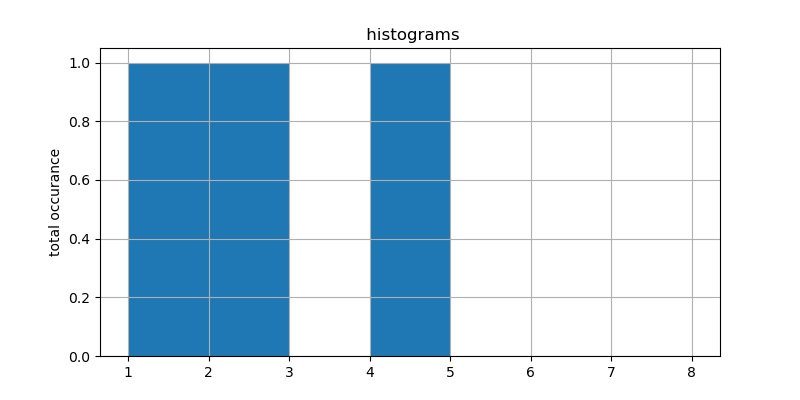
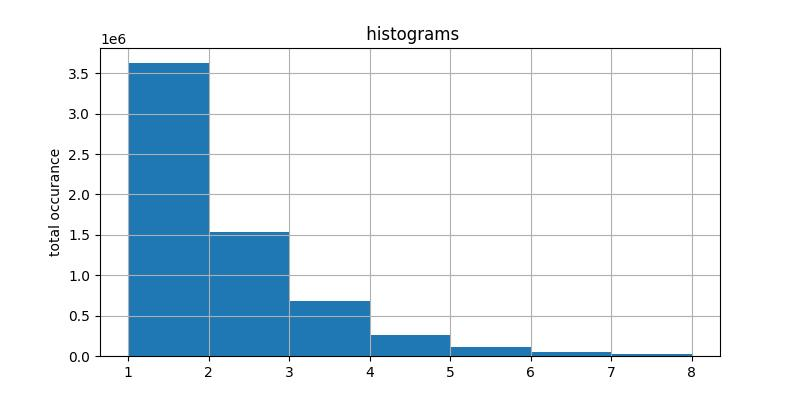
t5 model training

diff --git a/models/triple_dataset.py b/models/triple_dataset.py
@@ -1,0 +1,187 @@
+import torch
+import pandas as pd
+
+
+class TripleDataset(torch.utils.data.Dataset):
+    def __init__(self, filename, with_extra=False):
+
+    triples = []
+    sentence = []
+    with jsonlines.open(filename) as reader:
+        for d in reader:
+           if d['similarity'] > 0.76:
+               triples.append(d['triples'])
+               sentence.append(d['text'])
+    df = pd.Dataframe([triples,sentence], index=['triples','sentence']).T
+    def __getitem__(self, idx):
+        sentence, triples, title = self.df.iloc[idx]['sentence'], self.df.iloc[idx]['triples'], self.df.iloc[idx]['title']
+
+        if not self.with_extra:
+            return sentence, eval(triples), title,
+
+        extra = {'alias': [title] + eval(self.df.iloc[idx]['alias']), 'description': self.df.iloc[idx]['description']}
+
+        return sentence, eval(triples), title, extra
+
+
+
+    def __getitem__(self, idx):
+        sentence, triples, title = self.df.iloc[idx]['sentence'], self.df.iloc[idx]['triples'], self.df.iloc[idx]['title']
+
+
+
+def text_gen_collator(features, tokenizer, lang_gen):
+    # Parse Data
+    sentences = [e[0] for e in features]
+    triples = [e[1] for e in features]
+    titles = [e[2] for e in features]
+    
+    
+    def form_input(triples):
+        res = "en_XX "
+        for subj, rel, obj in triples:
+            res += f"<trip> <subj> {subj} <rel> {rel} <obj> {obj} "
+        res += lang_gen
+        return res
+            
+    
+    formed_input = [form_input(trips) for trips in triples]
+
+    inputs = tokenizer(formed_input, max_length=128, padding=True, truncation=True, add_special_tokens=True, return_tensors='pt')
+    
+    # Encode inputs
+    input_ids = inputs.input_ids
+    attention_mask = inputs.attention_mask
+    
+    # Encode outputs
+    labels = tokenizer(sentences, max_length=128, padding=True, truncation=True, add_special_tokens=True, return_tensors='pt').input_ids
+    labels_padding_mask = labels.eq(tokenizer.pad_token_id)
+    labels[labels_padding_mask] = -100
+    
+    
+    batch = {
+        'input_ids': input_ids,
+        'attention_mask': attention_mask,
+        'labels': labels,
+    }
+
+    return batch
+
+
+def text_gen_with_extra_collator(features, tokenizer, lang_gen):
+    # Parse Data
+    sentences = [e[0] for e in features]
+    triples = [e[1] for e in features]
+    titles = [e[2] for e in features]
+    
+    extras = [e[3] for e in features]
+    
+    def form_input(triples, extra):
+        res = "en_XX extra "
+        for subj, rel, obj in triples:
+            res += f"<trip> <subj> {subj} <rel> {rel} <obj> {obj} "
+        for alias in extra['alias']:
+            res += f"<al> {alias} "
+        res += f"<desc> {extra['description']} "
+        res += lang_gen
+        return res
+            
+    
+    formed_input = [form_input(trips, extra) for trips, extra in zip(triples, extras)]
+
+    inputs = tokenizer(formed_input, max_length=512, padding=True, truncation=True, add_special_tokens=True, return_tensors='pt')
+    
+    # Encode inputs
+    input_ids = inputs.input_ids
+    attention_mask = inputs.attention_mask
+    
+    # Encode outputs
+    labels = tokenizer(sentences, max_length=512, padding=True, truncation=True, add_special_tokens=True, return_tensors='pt').input_ids
+    labels_padding_mask = labels.eq(tokenizer.pad_token_id)
+    labels[labels_padding_mask] = -100
+    
+    
+    batch = {
+        'input_ids': input_ids,
+        'attention_mask': attention_mask,
+        'labels': labels,
+    }
+
+    return batch
+
+
+def text_gen_to_extra_collator(features, tokenizer, lang_gen):
+    # Parse Data
+    triples = [e[1] for e in features]
+    titles = [e[2] for e in features]
+    
+    extras = [e[3] for e in features]
+    
+    def form_input(triples):
+        res = "Generate Description "
+        for subj, rel, obj in triples:
+            res += f"<trip> <subj> {subj} <rel> {rel} <obj> {obj} "
+        res += lang_gen
+        return res
+    
+    def form_output(extra):
+        res = ""
+        for alias in extra['alias']:
+            res += f"<al> {alias} "
+        res += f"<desc> {extra['description']} "
+        return res
+            
+    
+    formed_input = [form_input(trips) for trips in triples]
+
+    inputs = tokenizer(formed_input, max_length=512, padding=True, truncation=True, add_special_tokens=True, return_tensors='pt')
+    
+    # Encode inputs
+    input_ids = inputs.input_ids
+    attention_mask = inputs.attention_mask
+    
+    # Encode outputs
+    formed_output = [form_output(extra) for extra in extras]
+    labels = tokenizer(formed_output, max_length=512, padding=True, truncation=True, add_special_tokens=True, return_tensors='pt').input_ids
+    labels_padding_mask = labels.eq(tokenizer.pad_token_id)
+    labels[labels_padding_mask] = -100
+    
+    
+    batch = {
+        'input_ids': input_ids,
+        'attention_mask': attention_mask,
+        'labels': labels,
+    }
+
+    return batch
+
+def text_gen_collator_inference(features, tokenizer, lang_gen):
+    # Parse Data
+    sentences = [sentence for sentence, _, _ in features]
+    triples = [triples for _, triples, _ in features]
+    titles = [title for _, _, title in features]
+    
+    def form_input(triples):
+        res = "en_XX "
+        for subj, rel, obj in triples:
+            res += f"<trip> <subj> {subj} <rel> {rel} <obj> {obj} "
+        res += lang_gen
+        return res
+            
+    
+    formed_input = [form_input(trips) for trips in triples]
+
+    inputs = tokenizer(formed_input, max_length=512, padding=True, truncation=True, add_special_tokens=True, return_tensors='pt')
+    
+    # Encode inputs
+    input_ids = inputs.input_ids
+    attention_mask = inputs.attention_mask
+    
+    
+    
+    batch = {
+        'input_ids': input_ids,
+        'attention_mask': attention_mask,
+    }
+
+    return batch, sentences

diff --git a/models/train_t5_gen.py b/models/train_t5_gen.py
@@ -1,0 +1,87 @@
+import torch
+import pandas as pd
+from sklearn.model_selection import train_test_split
+from transformers import T5Tokenizer, T5ForConditionalGeneration, Seq2SeqTrainingArguments, Seq2SeqTrainer
+from functools import partial
+import argparse
+
+from triple_dataset import TripleDataset, text_gen_collator
+
+
+def parse_args():
+    parser = argparse.ArgumentParser(description='Run training for generating sentences')
+    parser.add_argument('--data-path', type=str,
+                        help='path to the transformers-like triple dataset')
+    parser.add_argument('--language', type=str,
+                        default="breton",
+                        help='language to generate in')
+    
+    parser.add_argument("--model-name", default='t5-gen-br')
+    parser.add_argument("--save-dir", type=str, default='../models/')
+    parser.add_argument("--log-dir", type=str, default='../log/')
+                        
+    parser.add_argument("--lr", type=float, default=3e-4)
+    parser.add_argument("--batch_size", type=int, default=4)
+    parser.add_argument("--epochs", type=int, default=1)
+    
+    args = parser.parse_args()
+    return args
+
+    
+if __name__ == '__main__':
+    
+    args = parse_args()
+    
+    dataset = TripleDataset(args.data_path)
+    dataset_train, dataset_val = train_test_split(dataset, test_size=.2, random_state=42)
+    
+    tokenizer = T5Tokenizer.from_pretrained('t5-base')
+    
+    tokens_list = ['en_XX', '<subj>', '<obj>', '<rel>', '<trip>']
+    
+    if args.language == 'breton':
+        tokens_list.append('br_XX')
+        lang_gen = 'br_XX'
+    
+    
+    tokenizer.add_special_tokens({'additional_special_tokens': tokens_list})
+    
+    model = T5ForConditionalGeneration.from_pretrained('t5-base')
+    model.resize_token_embeddings(len(tokenizer))
+    
+    
+    train_args = Seq2SeqTrainingArguments(
+        output_dir=f"{args.save_dir}{args.model_name}",
+        do_train=True,
+        do_eval=True,
+        evaluation_strategy ='steps',
+        eval_steps = 1000,
+        save_steps = 1000,
+        logging_steps = 1000,
+        save_total_limit = 1,
+        load_best_model_at_end=True,
+        per_device_train_batch_size=args.batch_size,
+        per_device_eval_batch_size=args.batch_size,
+        learning_rate=args.lr,
+        warmup_steps = 100,
+        lr_scheduler_type='linear',
+        adam_beta2=0.98,
+        label_smoothing_factor=0,
+        num_train_epochs=args.epochs,
+        logging_dir=f"{args.log_dir}{args.model_name}",
+    )
+
+    trainer = Seq2SeqTrainer(
+        model=model,
+        args=train_args,
+        data_collator=partial(text_gen_collator, tokenizer=tokenizer, lang_gen=lang_gen),
+        train_dataset=dataset_train,
+        eval_dataset=dataset_val,
+    )
+                        
+    # Starting Evaluation
+    trainer.evaluate()
+
+    # Run Training
+    trainer.train()
+

diff --git a/similarity/sort_Tekgen_copy.py b/similarity/sort_Tekgen_copy.py
@@ -8,60 +8,32 @@ s_filter_score=[]
 record=[]
 with jsonlines.open(path) as reader:
     for d in reader:
-        s_filter_list.append(d['triples'])
         s_filter_score.append(d['similarity'])
         record.append(d)
 
-path = '../Textgen/output.jsonl'
-p_filter_list=[]
+path = '../Simgen/output.jsonl'
+
 f_score=[]
 precision=[]
 recall =[]
 
 with jsonlines.open(path) as reader:
    for d in reader:
-
-    p_filter_list.append(d['triples'] )
     f_score.append(d['f1'] )
     precision.append(d['precision'])
     recall.append(d['recall'])
 
-sorted_p = []
-sorted_r = []
-sorted_f = []
-exclude = []
-indexes=[]
-sorted_similarity
-print('reading done 1')
-for i,element in enumerate(s_filter_list) :
-    try:
-       index = p_filter_list.index(element)
-       indexes.append(index)
-       sorted_p.append(precision[index])
-       sorted_f.append(f_score[index])
-       sorted_r.append(recall[index])
-    except:
-        exclude.append(i)
-np.save('indexes,npy',indexes)
 
-print('sorting done')
-for index in sorted(exclude, reverse=True):
-    del s_filter_list[index]
-    del s_filter_score[index]
-    print(f'out of index {index}')
-
-
-
-diff = np.array(sorted_f) - np.array(s_filter_score)
+diff = np.array(f_score) - np.array(s_filter_score)
 #print(s_filter_list)
 #print(p_filter_list.index([['Michael Kumbirai', 'occupation', 'rugby union player'], ['Michael Kumbirai', 'date of birth', '09 May 1996']]))
 path = '../Textgen/output.jsonl'
 
 filtered_records = []
 
-f1_rho = pearsonr(sorted_f ,s_filter_score)[0]
-precision_rho = pearsonr(sorted_p, s_filter_score)[0]
-recall_rho = pearsonr(sorted_r, s_filter_score)[0]
+f1_rho = pearsonr(f_score ,s_filter_score)[0]
+precision_rho = pearsonr(precision, s_filter_score)[0]
+recall_rho = pearsonr(recall, s_filter_score)[0]
 print(f'precision {precision_rho}  rcall {recall_rho} f1 score {f1_rho}')
 for i,e in enumerate(record):
    if diff[i] > 0.1 and f_score[i] > 0.68:

diff --git a/similarity/graph-nb.py b/similarity/graph-nb.py
@@ -2,17 +2,23 @@ import json, os
 import jsonlines
 import numpy as np
 import matplotlib.pyplot as plt
+import matplotlib.ticker as ticker
 path = 'data.jsonl'
 n_bins = [1,2,3,4,5,6,7,8]
 with jsonlines.open(path) as reader:
     number_of_triples = [len(d['triples']) for d in reader]
     fig, ax = plt.subplots(figsize=(8, 4))
-number_of_triples=[1,2,4]
 # plot the cumulative histogram
-n, bins, patches = ax.hist(number_of_triples, n_bins, histtype='barstacked')
+n, bins, patches = ax.hist(number_of_triples, n_bins, histtype='barstacked',linewidth=1,alpha=0.8,width=0.8)
 print(n)
 ax.grid(True)
-ax.set_title(' histograms')
-ax.set_ylabel('total occurance')
+current_values = ax.get_yticks()
+ax.set_xticklabels('')
+#ax.set_yticklabels(['{:.0f}'.format(x) for x in current_values])
+ax.xaxis.set_minor_locator(ticker.FixedLocator([1.5,2.5,3.5,4.5,5.5,6.5,7.5,8.5]))
+ax.set_xticklabels(['1','2','3','4','5','6','7','8'], minor=True)
 
-fig.savefig('nb_triple_distribution.jpg')
+ax.set_title(' histogram')
+ax.set_ylabel('total occurance')
+ax.set_xlabel('number of triples')
+fig.savefig('nb_triple_distribution update.jpg')
